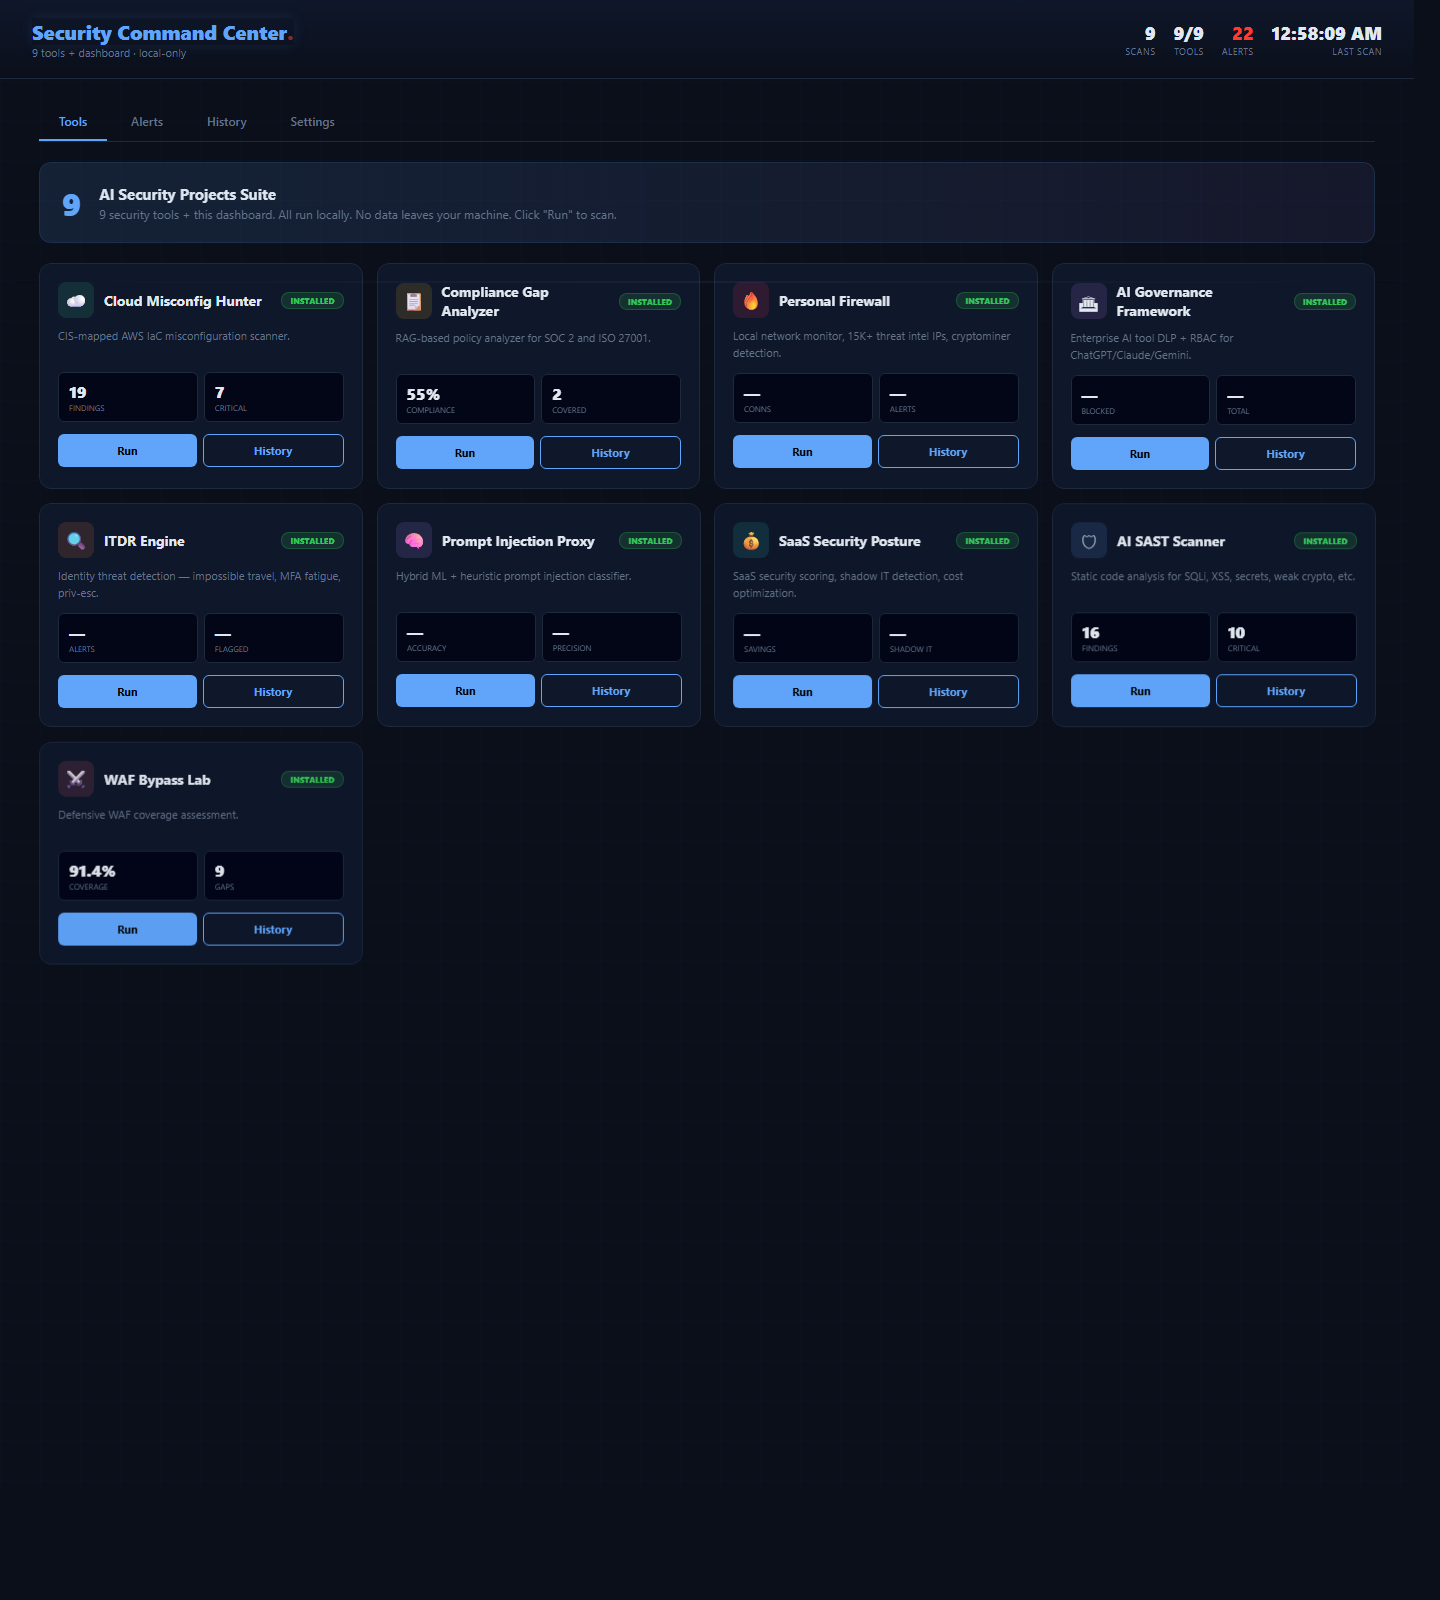
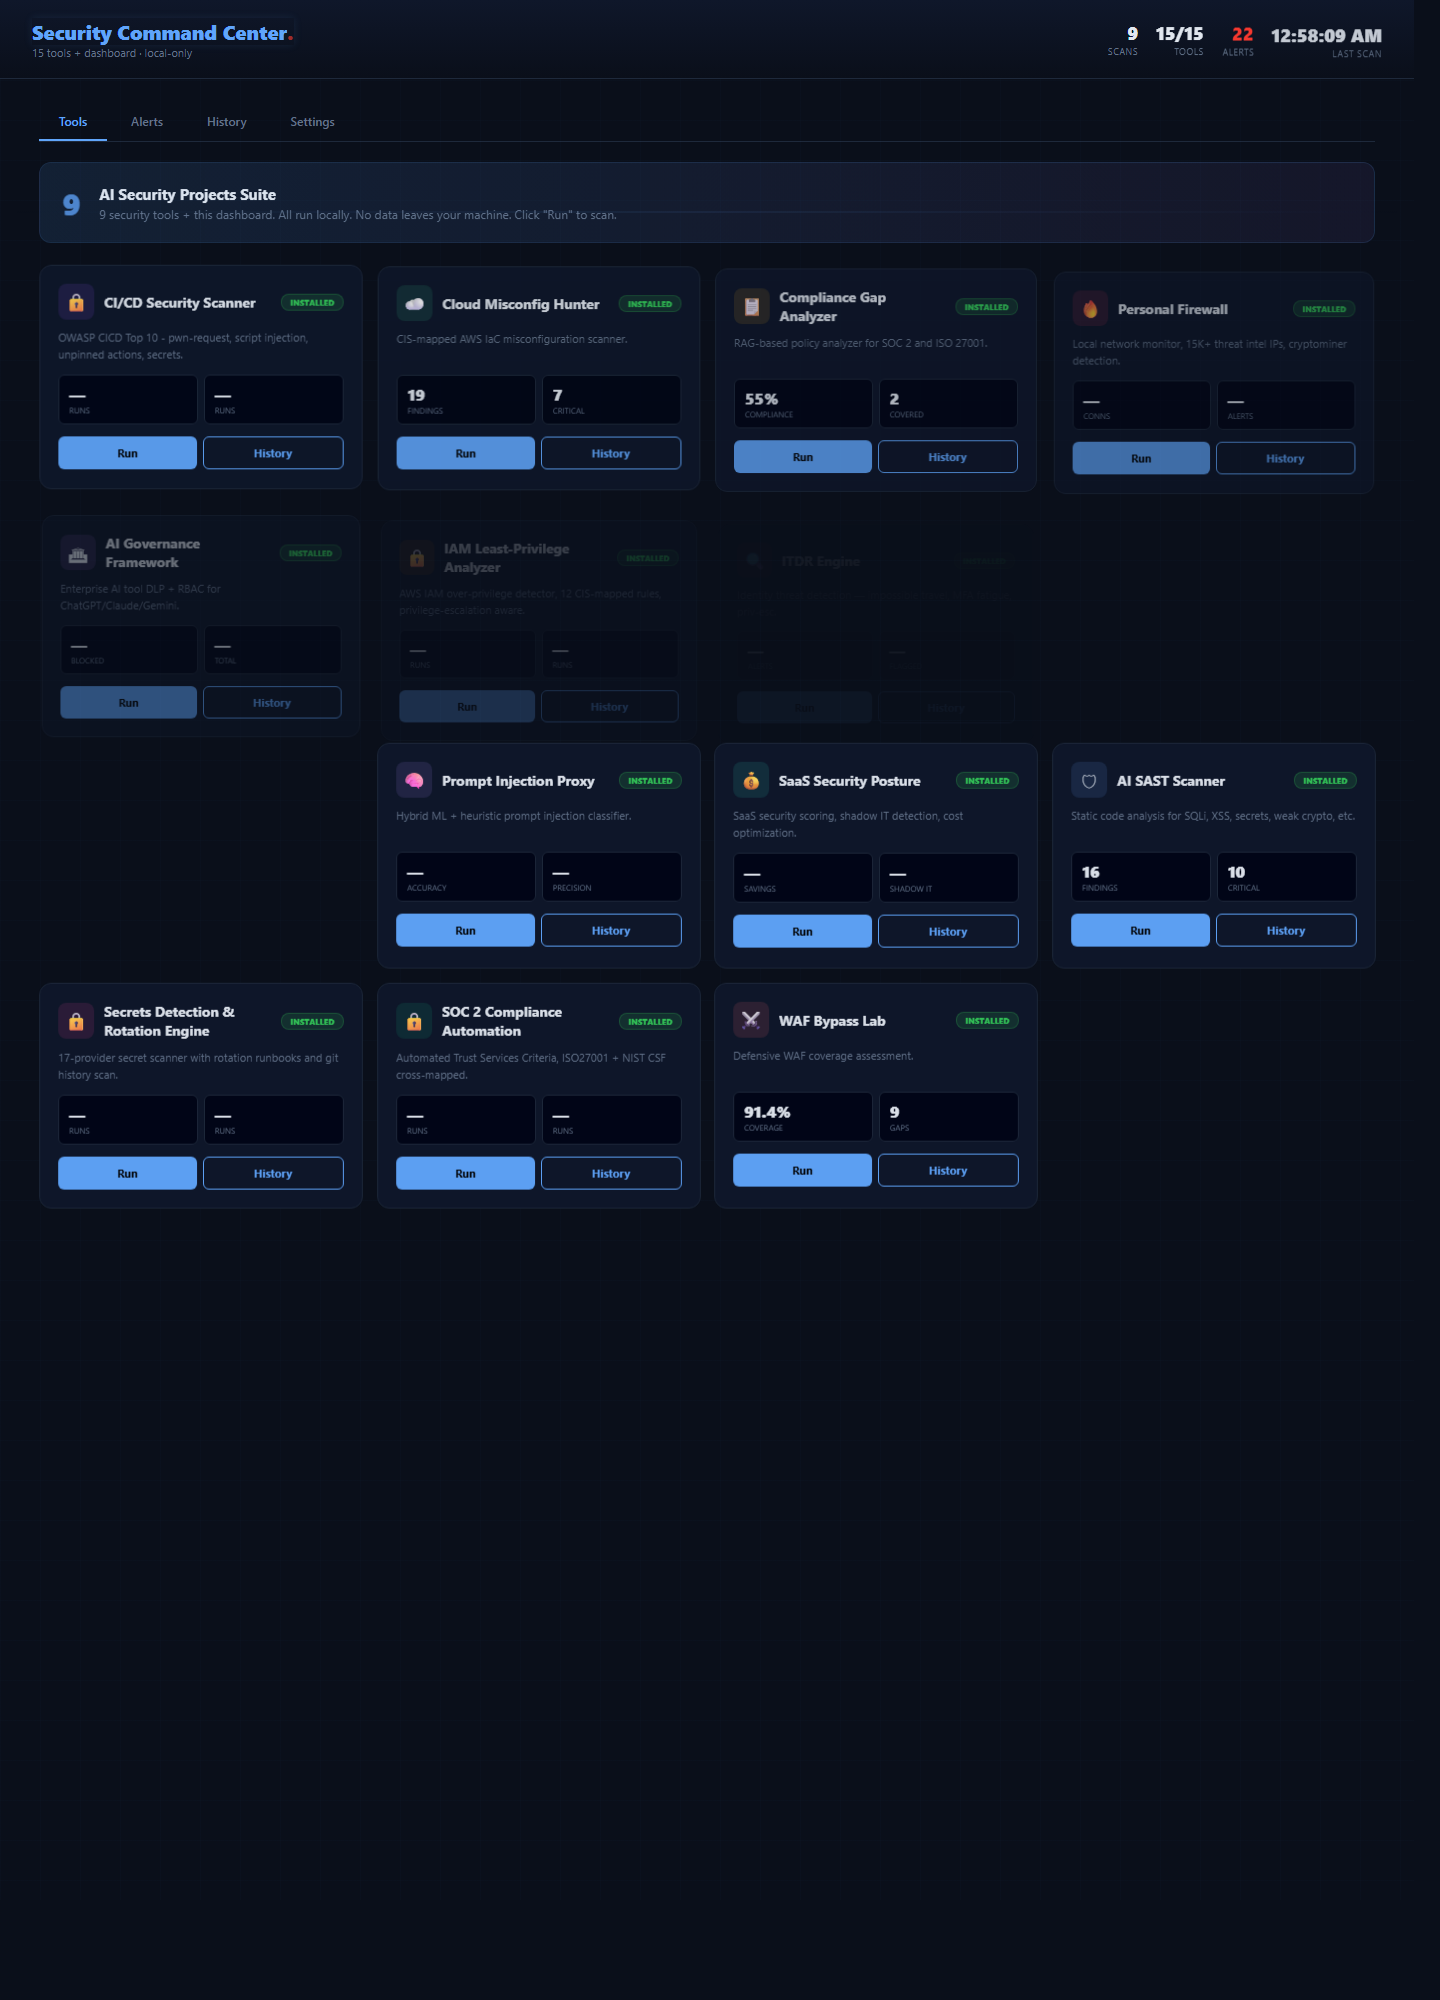
docs: replace screenshot with real HTML report / live dashboard capture

diff --git a/templates/dashboard.html b/templates/dashboard.html
@@ -126,7 +126,7 @@ h2{font-size:12px;color:var(--m);text-transform:uppercase;letter-spacing:.8px;ma
 <header>
   <div>
     <div class="logo">Security Command Center<span class="d">.</span></div>
-    <div class="tag">9 tools + dashboard &middot; local-only</div>
+    <div class="tag">15 tools + dashboard &middot; local-only</div>
   </div>
   <div class="hstat">
     <div class="hs"><div class="n" id="st-total">-</div><div class="l">Scans</div></div>

diff --git a/server.py b/server.py
@@ -47,6 +47,13 @@ DEFAULT_TOOL_PATHS = {
     "saas":       "../saas-security-posture",
     "itdr":       "../itdr-engine",
     "firewall":   "../personal-firewall",
+    # Second wave (added 2026-04-18)
+    "iam":        "../iam-least-privilege-analyzer",
+    "k8s":        "../k8s-admission-controller",
+    "cicd":       "../cicd-security-scanner",
+    "mitre":      "../mitre-attack-detection-rules",
+    "soc2":       "../soc2-compliance-automation",
+    "secrets":    "../secrets-detection-rotation-engine",
 }
 
 TOOL_METADATA = {
@@ -121,6 +128,55 @@ TOOL_METADATA = {
         "description": "Local network monitor, 15K+ threat intel IPs, cryptominer detection.",
         "entry": "firewall.py",
         "default_args": ["scan", "--no-intel"],
+    },
+    # Second wave (added 2026-04-18)
+    "iam": {
+        "name": "IAM Least-Privilege Analyzer",
+        "icon": "key",
+        "color": "#f59e0b",
+        "description": "AWS IAM over-privilege detector, 12 CIS-mapped rules, privilege-escalation aware.",
+        "entry": "analyzer.py",
+        "default_args": ["samples/"],
+    },
+    "k8s": {
+        "name": "Kubernetes Admission Controller",
+        "icon": "container",
+        "color": "#3b82f6",
+        "description": "Policy-as-code gate for K8s workloads, 15 CIS K8s rules, webhook + CLI modes.",
+        "entry": "controller.py",
+        "default_args": ["samples/"],
+    },
+    "cicd": {
+        "name": "CI/CD Security Scanner",
+        "icon": "git-branch",
+        "color": "#8b5cf6",
+        "description": "OWASP CICD Top 10 - pwn-request, script injection, unpinned actions, secrets.",
+        "entry": "scanner.py",
+        "default_args": ["samples/"],
+    },
+    "mitre": {
+        "name": "MITRE ATT&CK Detection Rules",
+        "icon": "target",
+        "color": "#ef4444",
+        "description": "Curated detection rules with Sigma / Splunk / Elastic / Sentinel exports.",
+        "entry": "library.py",
+        "default_args": ["coverage"],
+    },
+    "soc2": {
+        "name": "SOC 2 Compliance Automation",
+        "icon": "clipboard-check",
+        "color": "#10b981",
+        "description": "Automated Trust Services Criteria, ISO27001 + NIST CSF cross-mapped.",
+        "entry": "automation.py",
+        "default_args": ["run"],
+    },
+    "secrets": {
+        "name": "Secrets Detection & Rotation Engine",
+        "icon": "lock",
+        "color": "#ec4899",
+        "description": "17-provider secret scanner with rotation runbooks and git history scan.",
+        "entry": "engine.py",
+        "default_args": ["scan", "samples/"],
     },
 }
 

diff --git a/README.md b/README.md
@@ -1,7 +1,7 @@
 # 🛡️ Security Command Center
 
 > **The unified dashboard that orchestrates the entire AI Security Projects suite from a single pane of glass.**
-> SAST + Cloud Misconfig + Prompt Injection + Compliance + WAF Bypass — all 5 tools, one dashboard, zero paid SaaS.
+> SAST, Cloud, IAM, K8s, CI/CD, MITRE, SOC 2, Secrets, LLM Firewall, WAF Lab, Compliance, AI Governance, SaaS Posture, ITDR, Personal Firewall — 15 tools, one dashboard, zero paid SaaS.
 
 [![License: MIT](https://img.shields.io/badge/License-MIT-yellow.svg)](./LICENSE)
 [![Python 3.8+](https://img.shields.io/badge/python-3.8+-blue.svg)](https://www.python.org/downloads/)